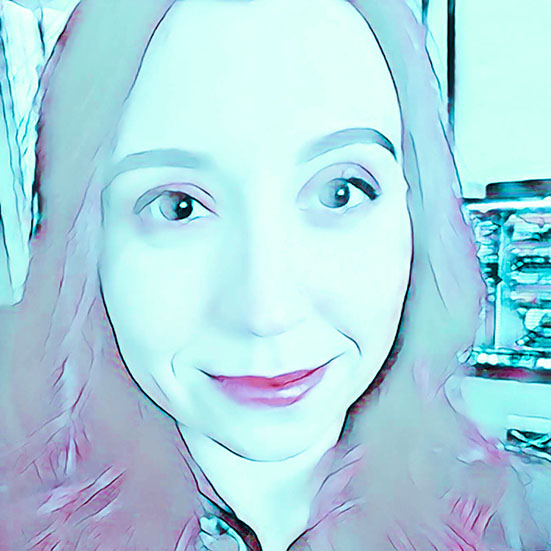
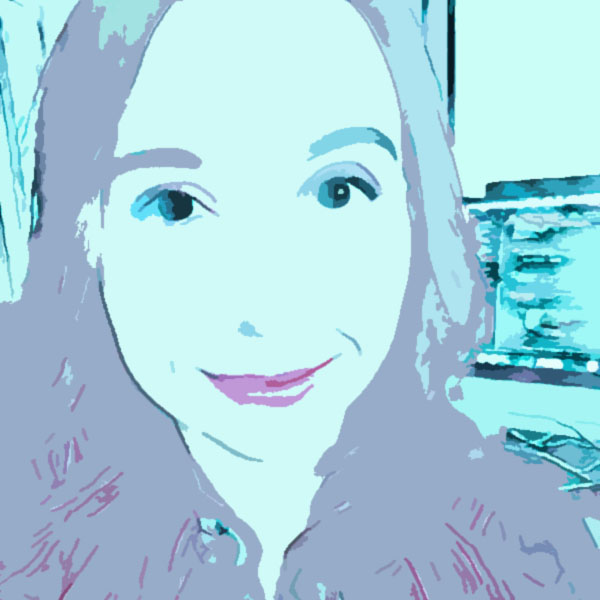
updated images for personal site landing page

diff --git a/apps/kyleseem/templates/kyleseem/index.html b/apps/kyleseem/templates/kyleseem/index.html
@@ -19,7 +19,7 @@
 
                 <div class="imageWrapper position-relative border rounded shadow mx-auto p-2" style="max-width:275px;">
                     <a href="{% url 'social_media:index' %}">
-                        <img class="rounded w-100" src="/static/kyleseem/img/ksp_screenshot.jpg" alt="kittenstagram site screenshot" />
+                        <img class="rounded w-100" src="/static/kyleseem/img/kstg_screenshot.jpg" alt="kittenstagram site screenshot" />
                         <div class="overlay">
                             <div class="text-dark p-3">
                                 <h4>KittenStagram</h4>
@@ -94,7 +94,7 @@
             <div class="p-3">
                 <div id="aboutDjango" class="d-flex w-100">
                     <button class="collapsed bg-white rounded shadow p-1" type="button" data-toggle="collapse" data-target="#toggleDjango" aria-expanded="false" aria-controls="toggleDjango" style="max-width: 33%;">
-                        <img class="border-0 rounded w-100" src="/static/kyleseem/img/ksp_screenshot.jpg" alt="KittenStagram screenshot" />
+                        <img class="border-0 rounded w-100" src="/static/kyleseem/img/kstg_screenshot.jpg" alt="KittenStagram screenshot" />
                     </button>
                     <div class="align-self-center ml-4">
                         <p class="lead mb-0" style="font-family: 'Shadows Into Light Two', cursive;">Django Stack<br> KittenStagram</p>
